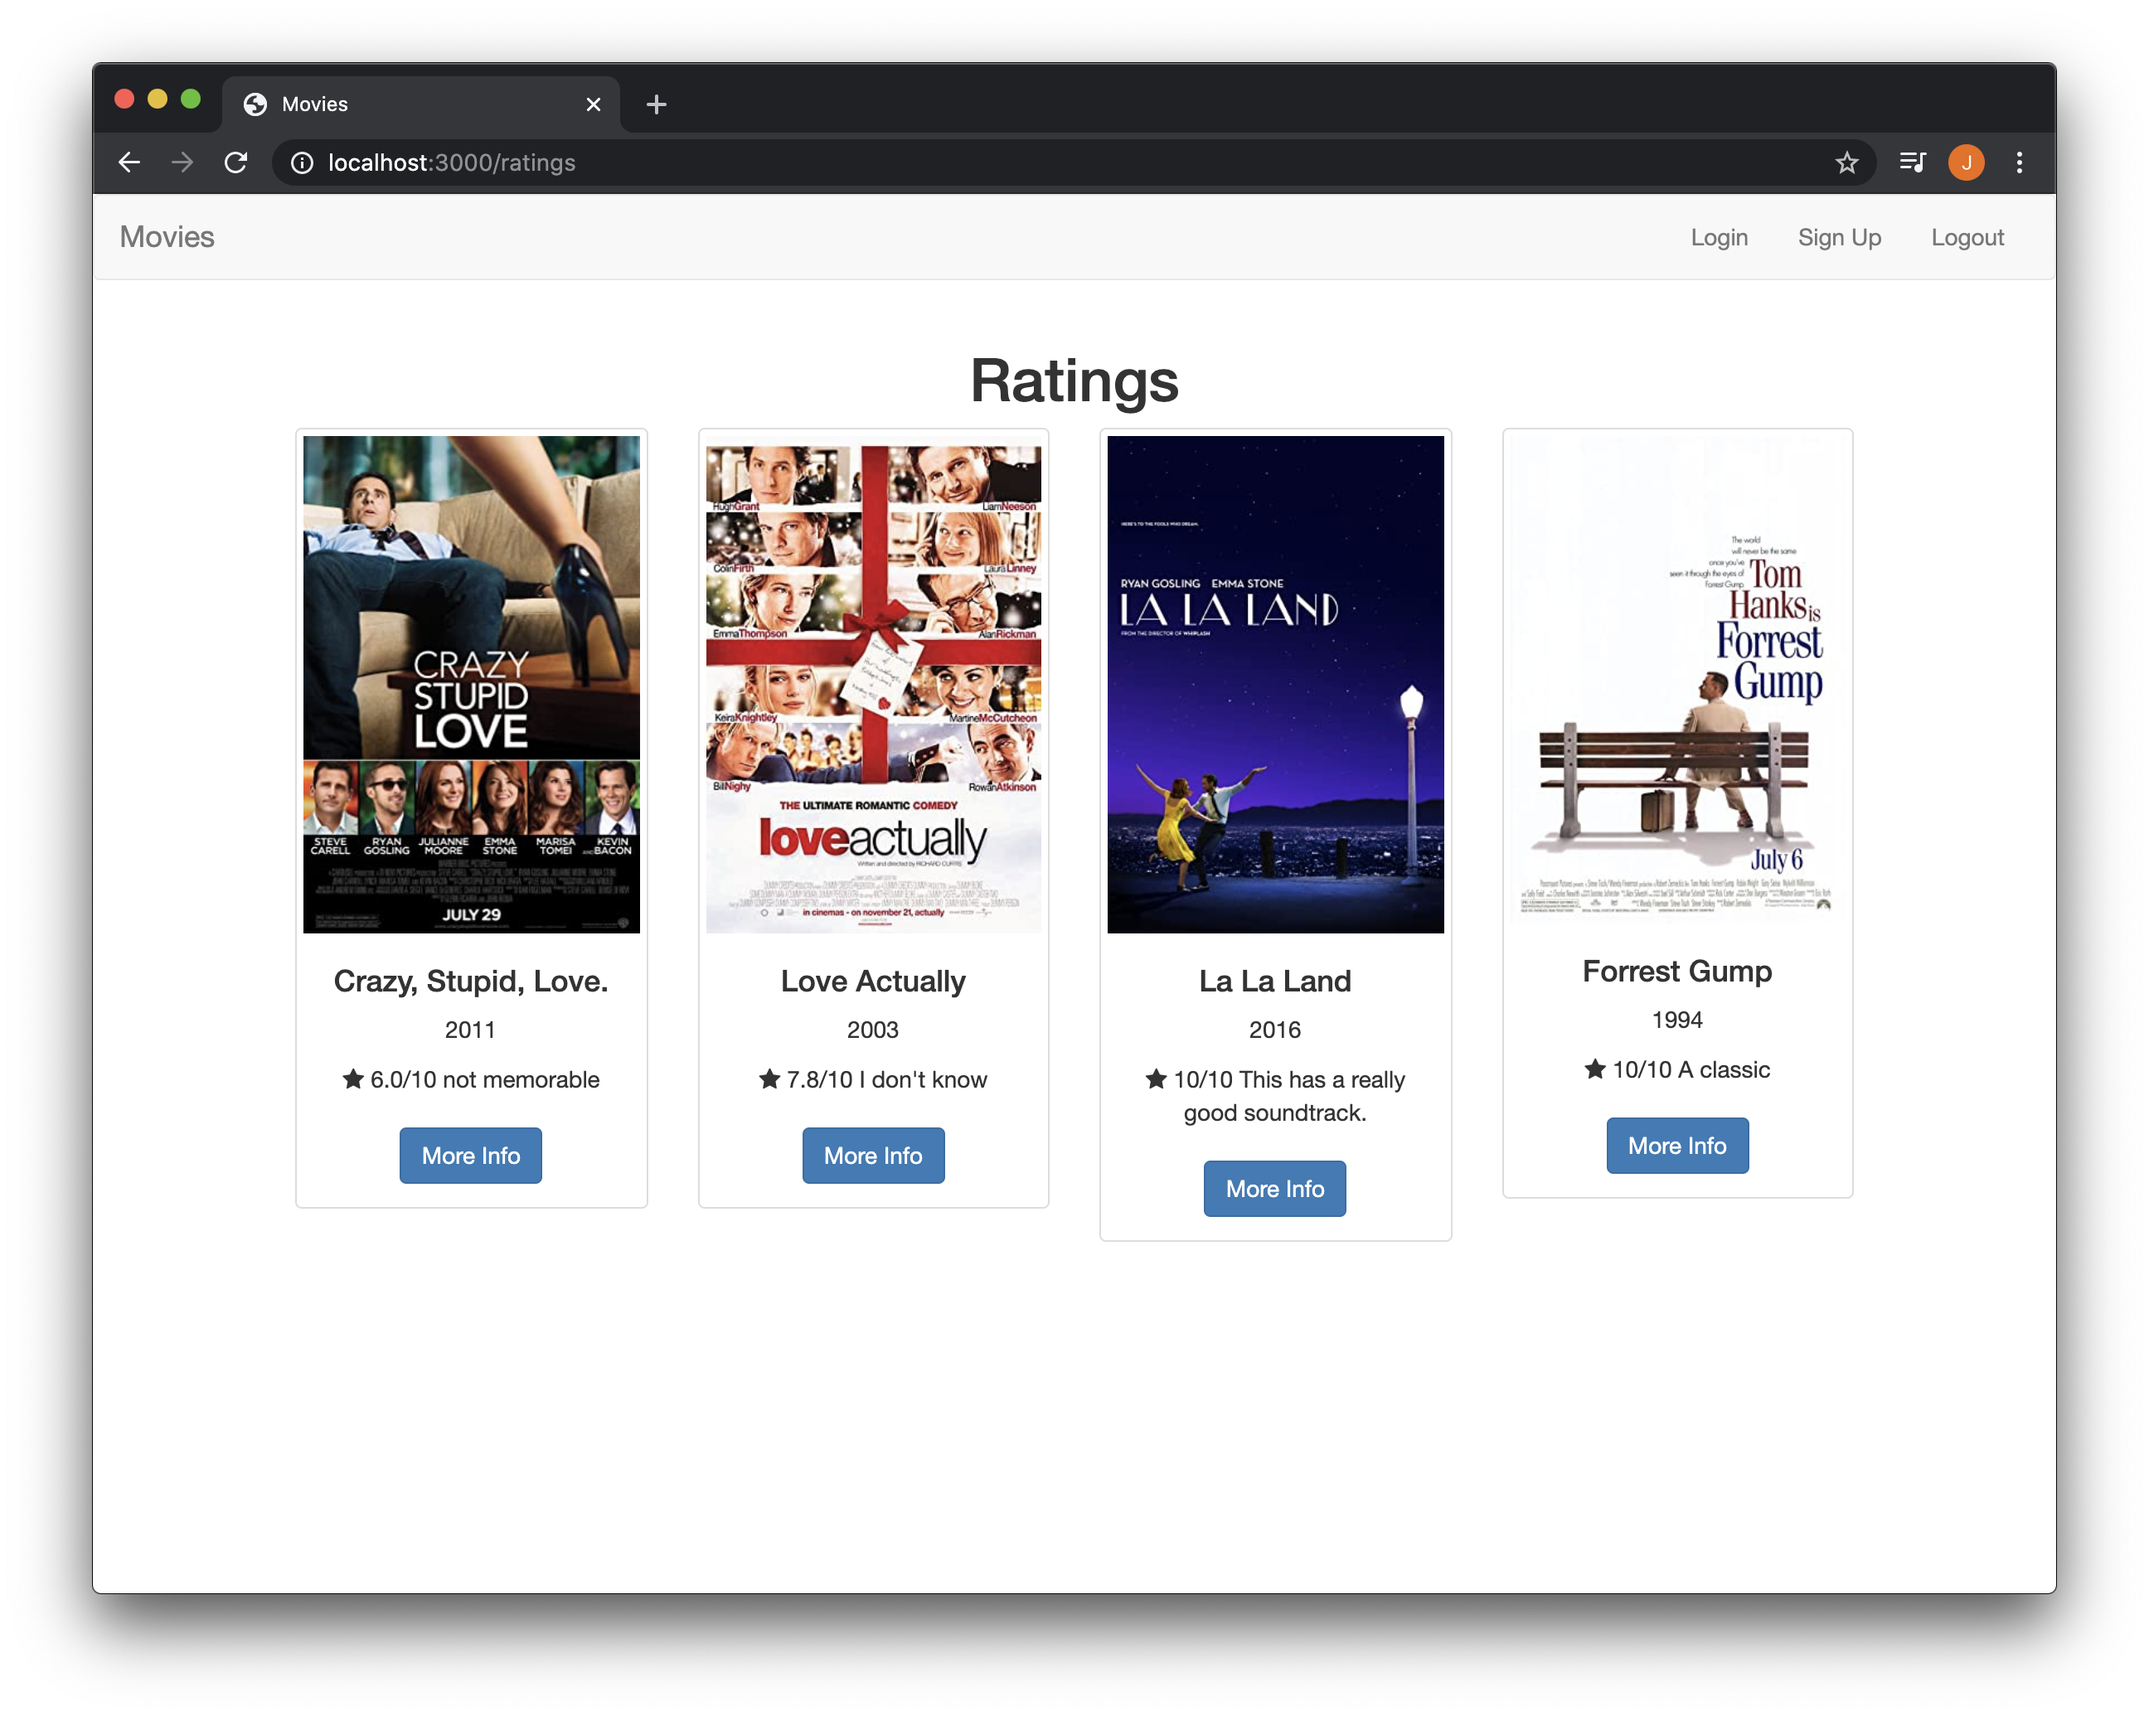
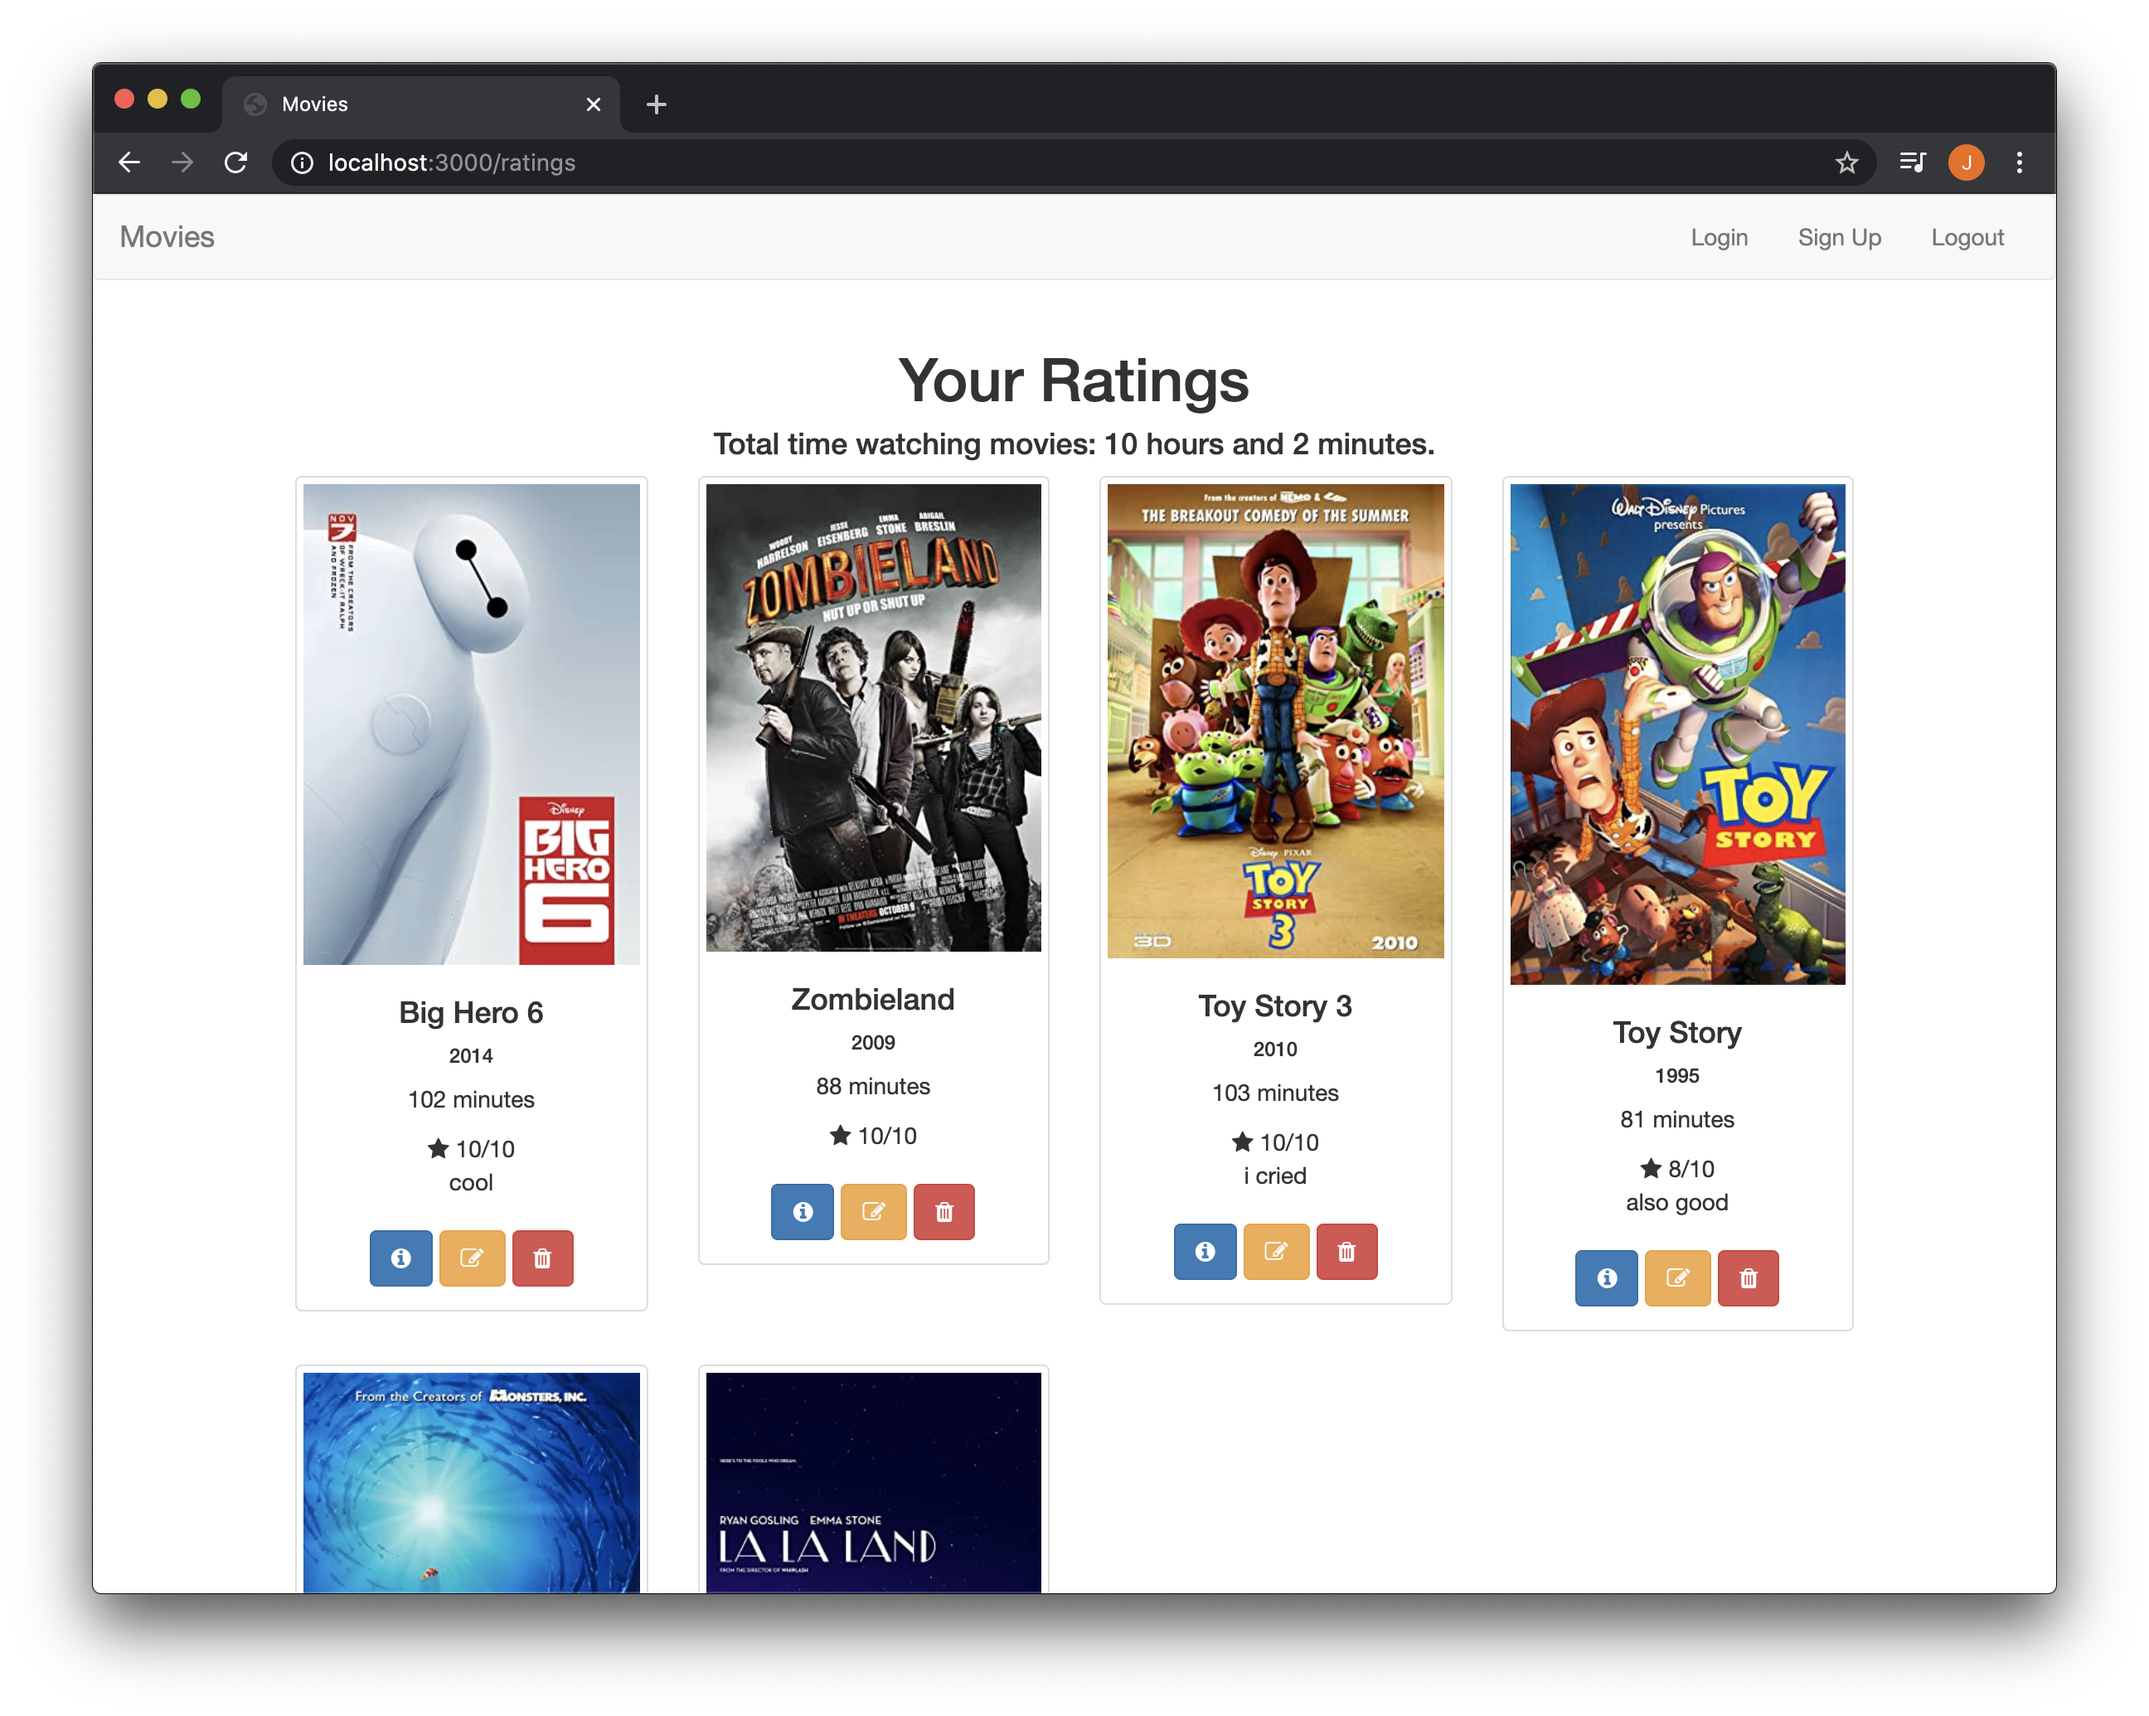
allow users to edit and delete ratings

Changed region(s): [[0.125, 0.1855, 0.875, 0.9275]]

diff --git a/app.js b/app.js
@@ -5,74 +5,79 @@ const app = express();
 const request = require('request');
 const bodyParser = require('body-parser');
 const mongoose = require('mongoose');
-const Rating = require("./models/rating");
+const methodOverride = require('method-override')
+const Rating = require('./models/rating');
 const PORT = process.env.PORT || 3000;
 
-mongoose.connect("mongodb://localhost:27017/movies", {useNewUrlParser: true});
+mongoose.connect('mongodb://localhost:27017/movies', {useNewUrlParser: true});
 app.use(bodyParser.urlencoded({extended: true}));
 app.use(express.static('public'));
-app.set("view engine", "ejs");
+app.use(methodOverride('_method'))
+app.set('view engine', 'ejs');
 
 // Search page
-app.get("/", (req, res) => {
-    res.render("search");
+app.get('/', (req, res) => {
+    res.render('search');
 });
 
 // Display results of search query
-app.get("/results", (req, res) => {
+app.get('/results', (req, res) => {
     const query = req.query.search;
     const url = `http://www.omdbapi.com/?apikey=${process.env.APIKEY}&s=` + query;
     request(url, (error, response, body) => {
         if (!error && response.statusCode == 200) {
             const data = JSON.parse(body);
-            if (data.Response === "False") {
-                console.log("BAD");
-                res.render("bad-results", {query: query});
+            if (data.Response === 'False') {
+                res.render('bad-results', {query: query, error: data.Error});
             } else {
-                res.render("results", {data: data, query: query});
+                res.render('results', {data: data, query: query});
             }
         }
     });
 });
 
 // Display additional information about specific movie
-app.get("/results/:id", (req, res) => {
+app.get('/results/:id', (req, res) => {
     const imdbID= req.params.id;
     const url = `http://www.omdbapi.com/?apikey=${process.env.APIKEY}&i=` + imdbID;
     request(url, (error, response, body) => {
         if (!error && response.statusCode == 200) {
             const data = JSON.parse(body);
-            res.render("show", {data: data});
+            res.render('show', {data: data});
         }
     });
 });
 
 // Show all user ratings
-app.get("/ratings", (req, res) => {
+app.get('/ratings', (req, res) => {
     // Get all ratings from DB
     Rating.find({}, (err, allRatings) => {
         if (err) {
             console.log(err);
         } else {
-            res.render("ratings", {ratings: allRatings});
+            let totalTime = 0;
+            allRatings.forEach((rating) => {
+                totalTime += rating.runtime;
+            });
+            res.render('ratings', {ratings: allRatings, totalTime: totalTime});
         }
     });
 });
 
 // Show form to create new rating
-app.get("/ratings/:id/new", (req, res) => {
+app.get('/ratings/:id/new', (req, res) => {
     const imdbID = req.params.id;
     const url = `http://www.omdbapi.com/?apikey=${process.env.APIKEY}&i=` + imdbID;
     request(url, (error, response, body) => {
         if (!error && response.statusCode == 200) {
             const data = JSON.parse(body);
-            res.render("new", {data: data});
+            res.render('new', {data: data});
         }
     });
 });
 
 // Add new rating to ratings DB
-app.post("/ratings/:id", (req, res) => {
+app.post('/ratings/:id', (req, res) => {
     const imdbID = req.params.id;
     const url = `http://www.omdbapi.com/?apikey=${process.env.APIKEY}&i=` + imdbID;
     request(url, (error, response, body) => {
@@ -85,20 +90,55 @@ app.post("/ratings/:id", (req, res) => {
                 year: data.Year,
                 imdbID: data.imdbID,
                 poster: data.Poster,
+                runtime: parseFloat(data.Runtime),
                 rating: rating,
                 comment: comment
             };
-            // Create a new rating and save to DB
+            // Create a new rating and save to ratings DB
             Rating.create(newRating, (err, newlyCreated) => {
                 if (err) {
                     console.log(err);
                 } else {
-                    res.redirect("/ratings");
+                    res.redirect('/ratings');
                 }
             });
         }
     });
 });
+
+// Edit rating
+app.get('/ratings/:id/edit', (req, res) => {
+    Rating.findOne({imdbID: req.params.id}, (err, foundRating) => {
+        if (err) {
+            res.redirect('/ratings')
+        } else {
+            res.render('edit', {rating: foundRating})
+        }
+    })
+})
+
+// Update rating
+app.put('/ratings/:id', (req, res) => {
+    Rating.findOneAndUpdate({imdbID: req.params.id}, {$set:{rating: req.body.rating, comment: req.body.comment}}, {new: true}, (err, updatedRating) => {
+        if (err) {
+            res.redirect('/ratings')
+        } else {
+            res.redirect('/ratings')
+        }
+    })
+})
+
+// Delete rating
+app.delete('/ratings/:id', (req, res) => {
+    Rating.deleteOne({imdbID: req.params.id}, err => {
+        if (err) {
+            res.redirect('/ratings')
+        } else {
+            res.redirect('/ratings')
+        }
+    })
+})
+
 
 app.listen(PORT, () => {
     console.log(`Server is listening on port ${PORT}`);

diff --git a/models/rating.js b/models/rating.js
@@ -4,7 +4,8 @@ const ratingSchema = new mongoose.Schema({
     year: String,
     imdbID: String,
     poster: String,
-    rating: String,
+    runtime: Number,
+    rating: Number,
     comment: String
 });
 module.exports = mongoose.model("Rating", ratingSchema);

diff --git a/README.md b/README.md
@@ -5,8 +5,9 @@ Movie Recommendation System web app using Node and OMDb API
 
 # Features:
 - Search feature to display 10 movies corresponding to query    
-- Show more information about a movie
-- Add a movie to list of movies you've watched
+- Show more information about a movie   
+- Rate and add movies to list of movies you've watched  
+- Displays total time you've spent watching movies in your ratings list 
 
 # To-do:
 - [x] Create movie search feature using OMDb API
@@ -27,3 +28,5 @@ Add movies you've seen to your "watched" list and rate them:
 ![Rate](./preview/rate.png)
 View your ratings
 ![Ratings](./preview/ratings.png)
+Edit your ratings
+![Edit](./preview/edit.png)
